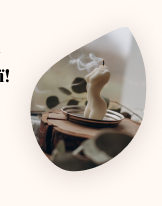
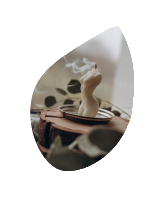
create about us section. time: 03:44:00

diff --git a/index.html b/index.html
@@ -53,7 +53,8 @@
                 <button class="top__buy">Купити</button>
             </div>
             <picture class="top__img">
-                 <source srcset="images/top-m.png" media="(max-width: 480px)">
+                <source srcset="images/top-s.png" media="(max-width: 360px)">
+                <source srcset="images/top-m.png" media="(max-width: 480px)">
                 <img class="top__img-l" src="images/top-l.png" alt="">
             </picture>
         </div>

diff --git a/css/style.css b/css/style.css
@@ -328,3 +328,24 @@ button {
         padding: 30px 0 50px;
     }
 }
+
+@media (max-width: 360px) {
+    .top__img {
+        left: auto;
+        right: 0;
+    }
+    .top__img-l {
+        width: 180px;
+    }
+    .top__content {
+        width: 200px;
+        padding: 20px 0 0;
+    }
+    .top__title {
+        font-size: 18px;
+    }
+    .top__text {
+        font-size: 10px;
+    }
+
+}
